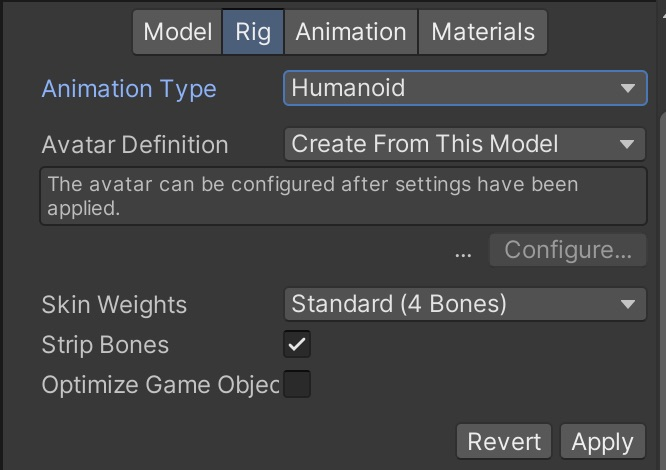
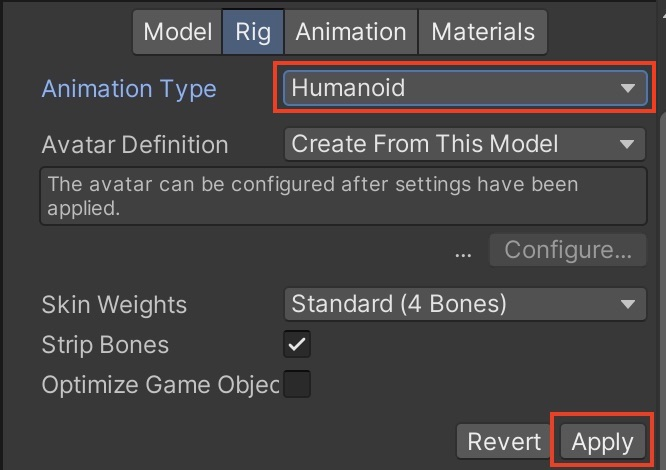
Small stuff

Changed region(s): [[0.3904, 0.1191, 0.991, 0.2681], [0.8108, 0.8638, 0.991, 1.0]]

diff --git a/session2.md b/session2.md
@@ -173,7 +173,7 @@ Import the fbx-file in Unity, select it in the project window and adjust the imp
 2. Make sure the Animation is looped -> Tab "Animation"
 ![](images/mixamo4.jpeg)
 
-3. Make sure the Rig is humanoid -> Tab "Rig"
+3. Make sure the Rig is humanoid -> Tab "Rig" -> and Click on "Apply"
 ![](images/mixamo5.jpeg)
 
 4. Drag and Drop the Animation on the object in the hiearchy
